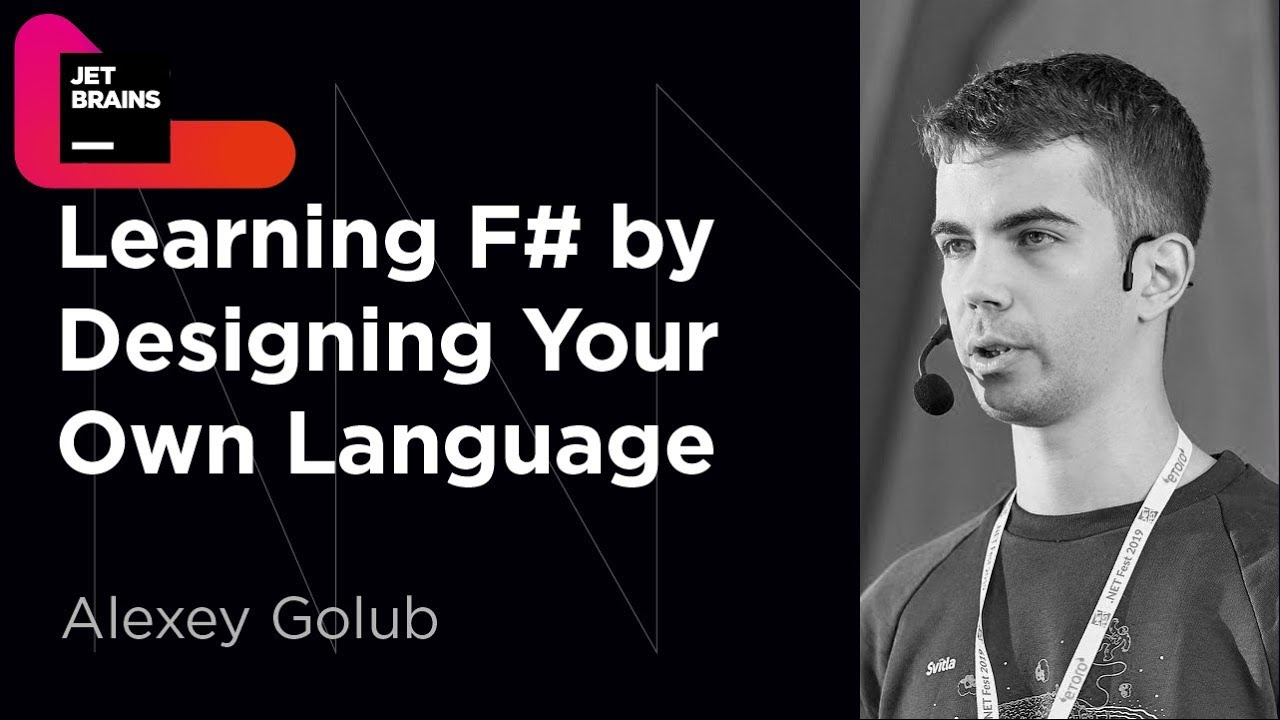
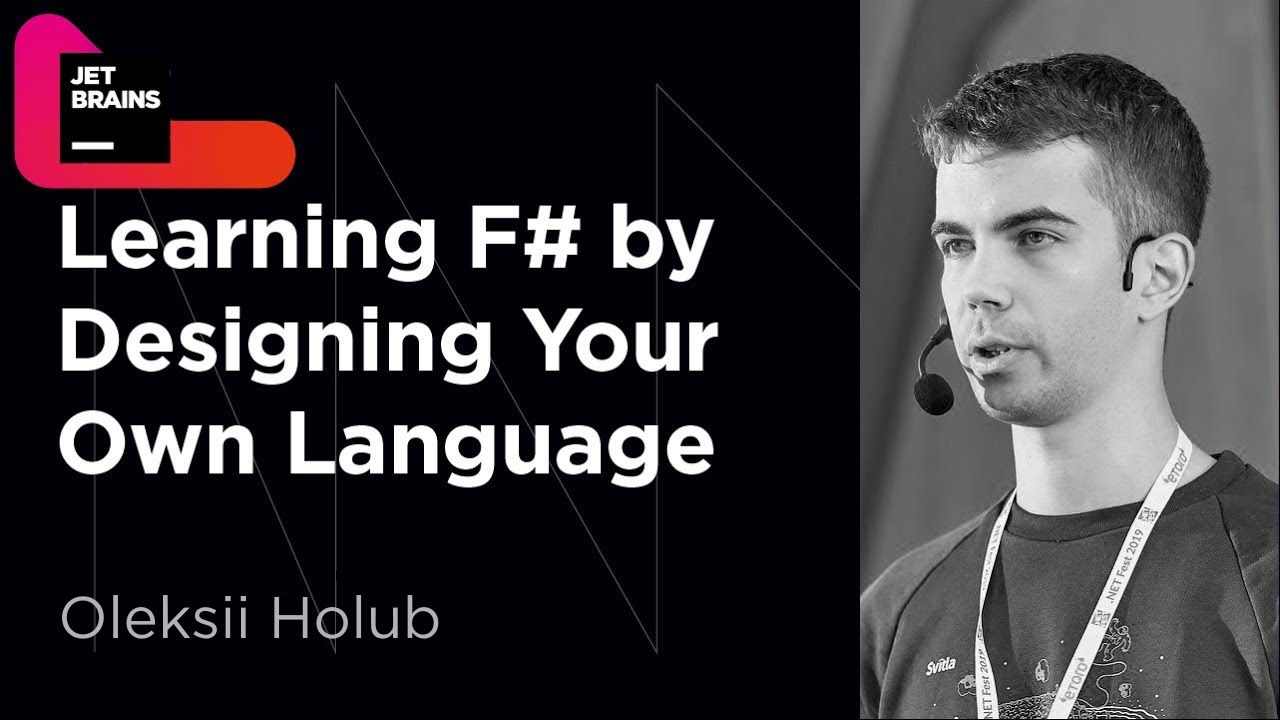
Update images

Changed region(s): [[0.0312, 0.825, 0.3438, 0.9167]]

diff --git a/sites/dotnet-guide/contents/tutorials/dotnet-days-online-2020/learning-f-by-designing-your-own-language/index.md b/sites/dotnet-guide/contents/tutorials/dotnet-days-online-2020/learning-f-by-designing-your-own-language/index.md
@@ -6,7 +6,7 @@ technologies: [.net,fsharp]
 products: [rider,resharper]
 topics: [web, ide]
 author: maartenba
-subtitle: Alexey Golub
+subtitle: Oleksii Holub
 thumbnail: ./thumbnail.png
 longVideo: 
     poster: ./thumbnail.png
